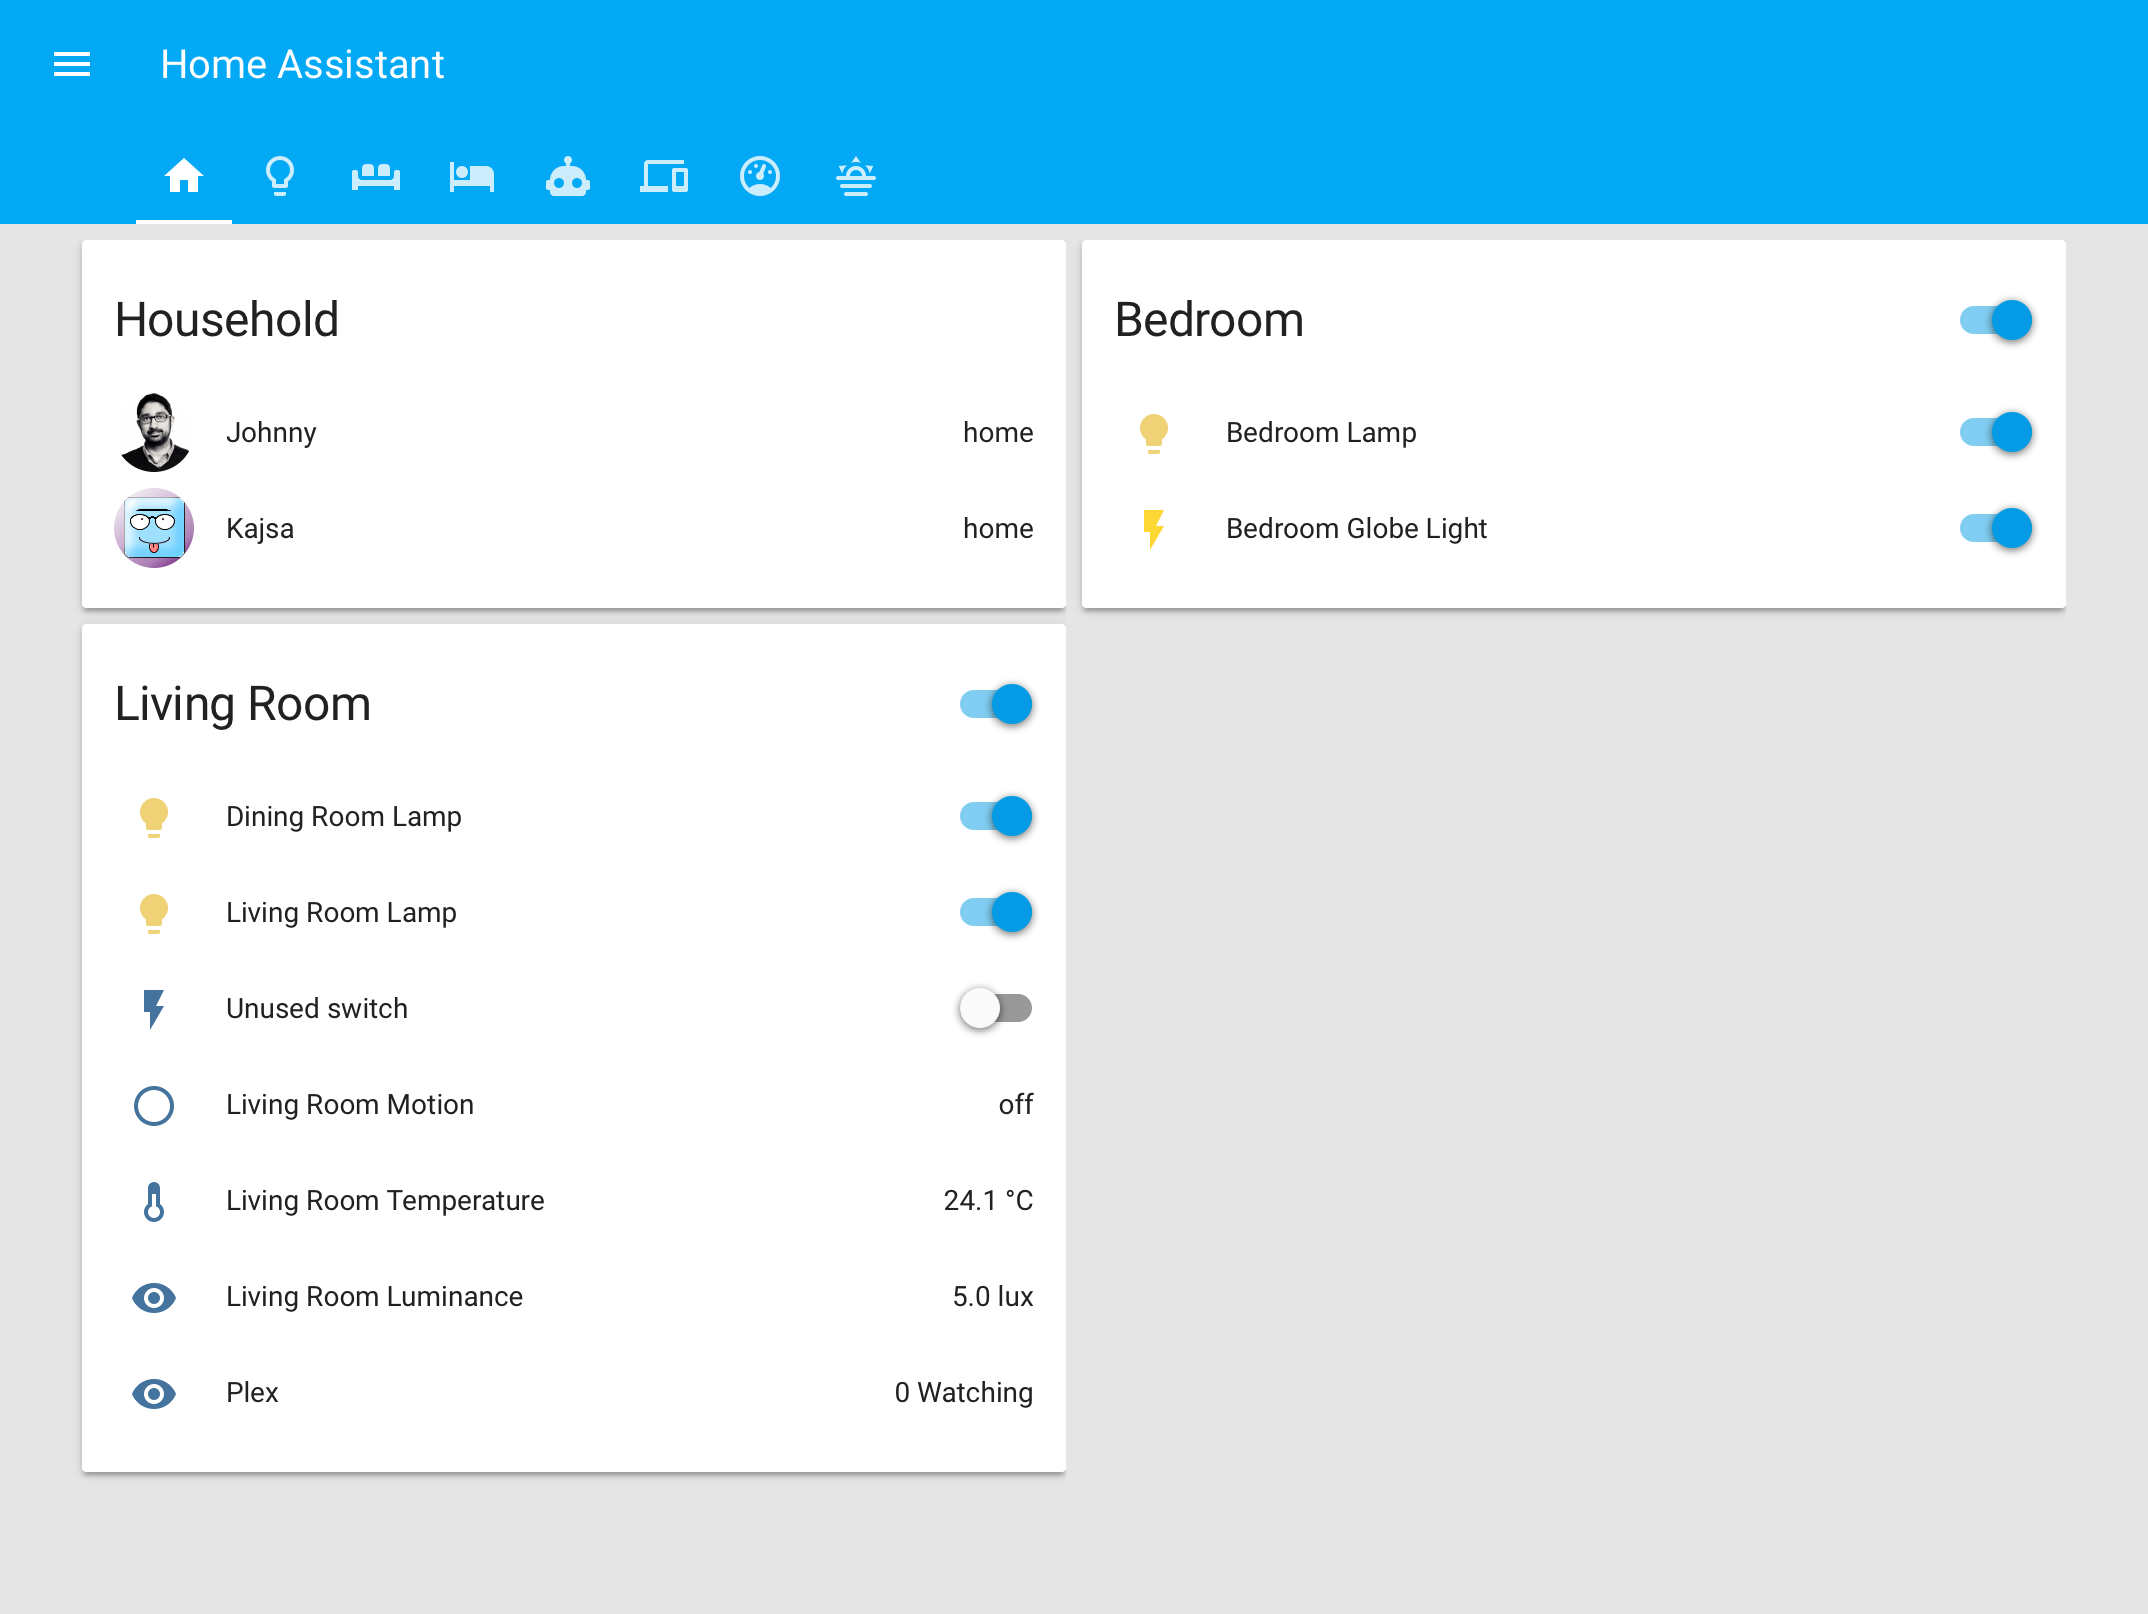
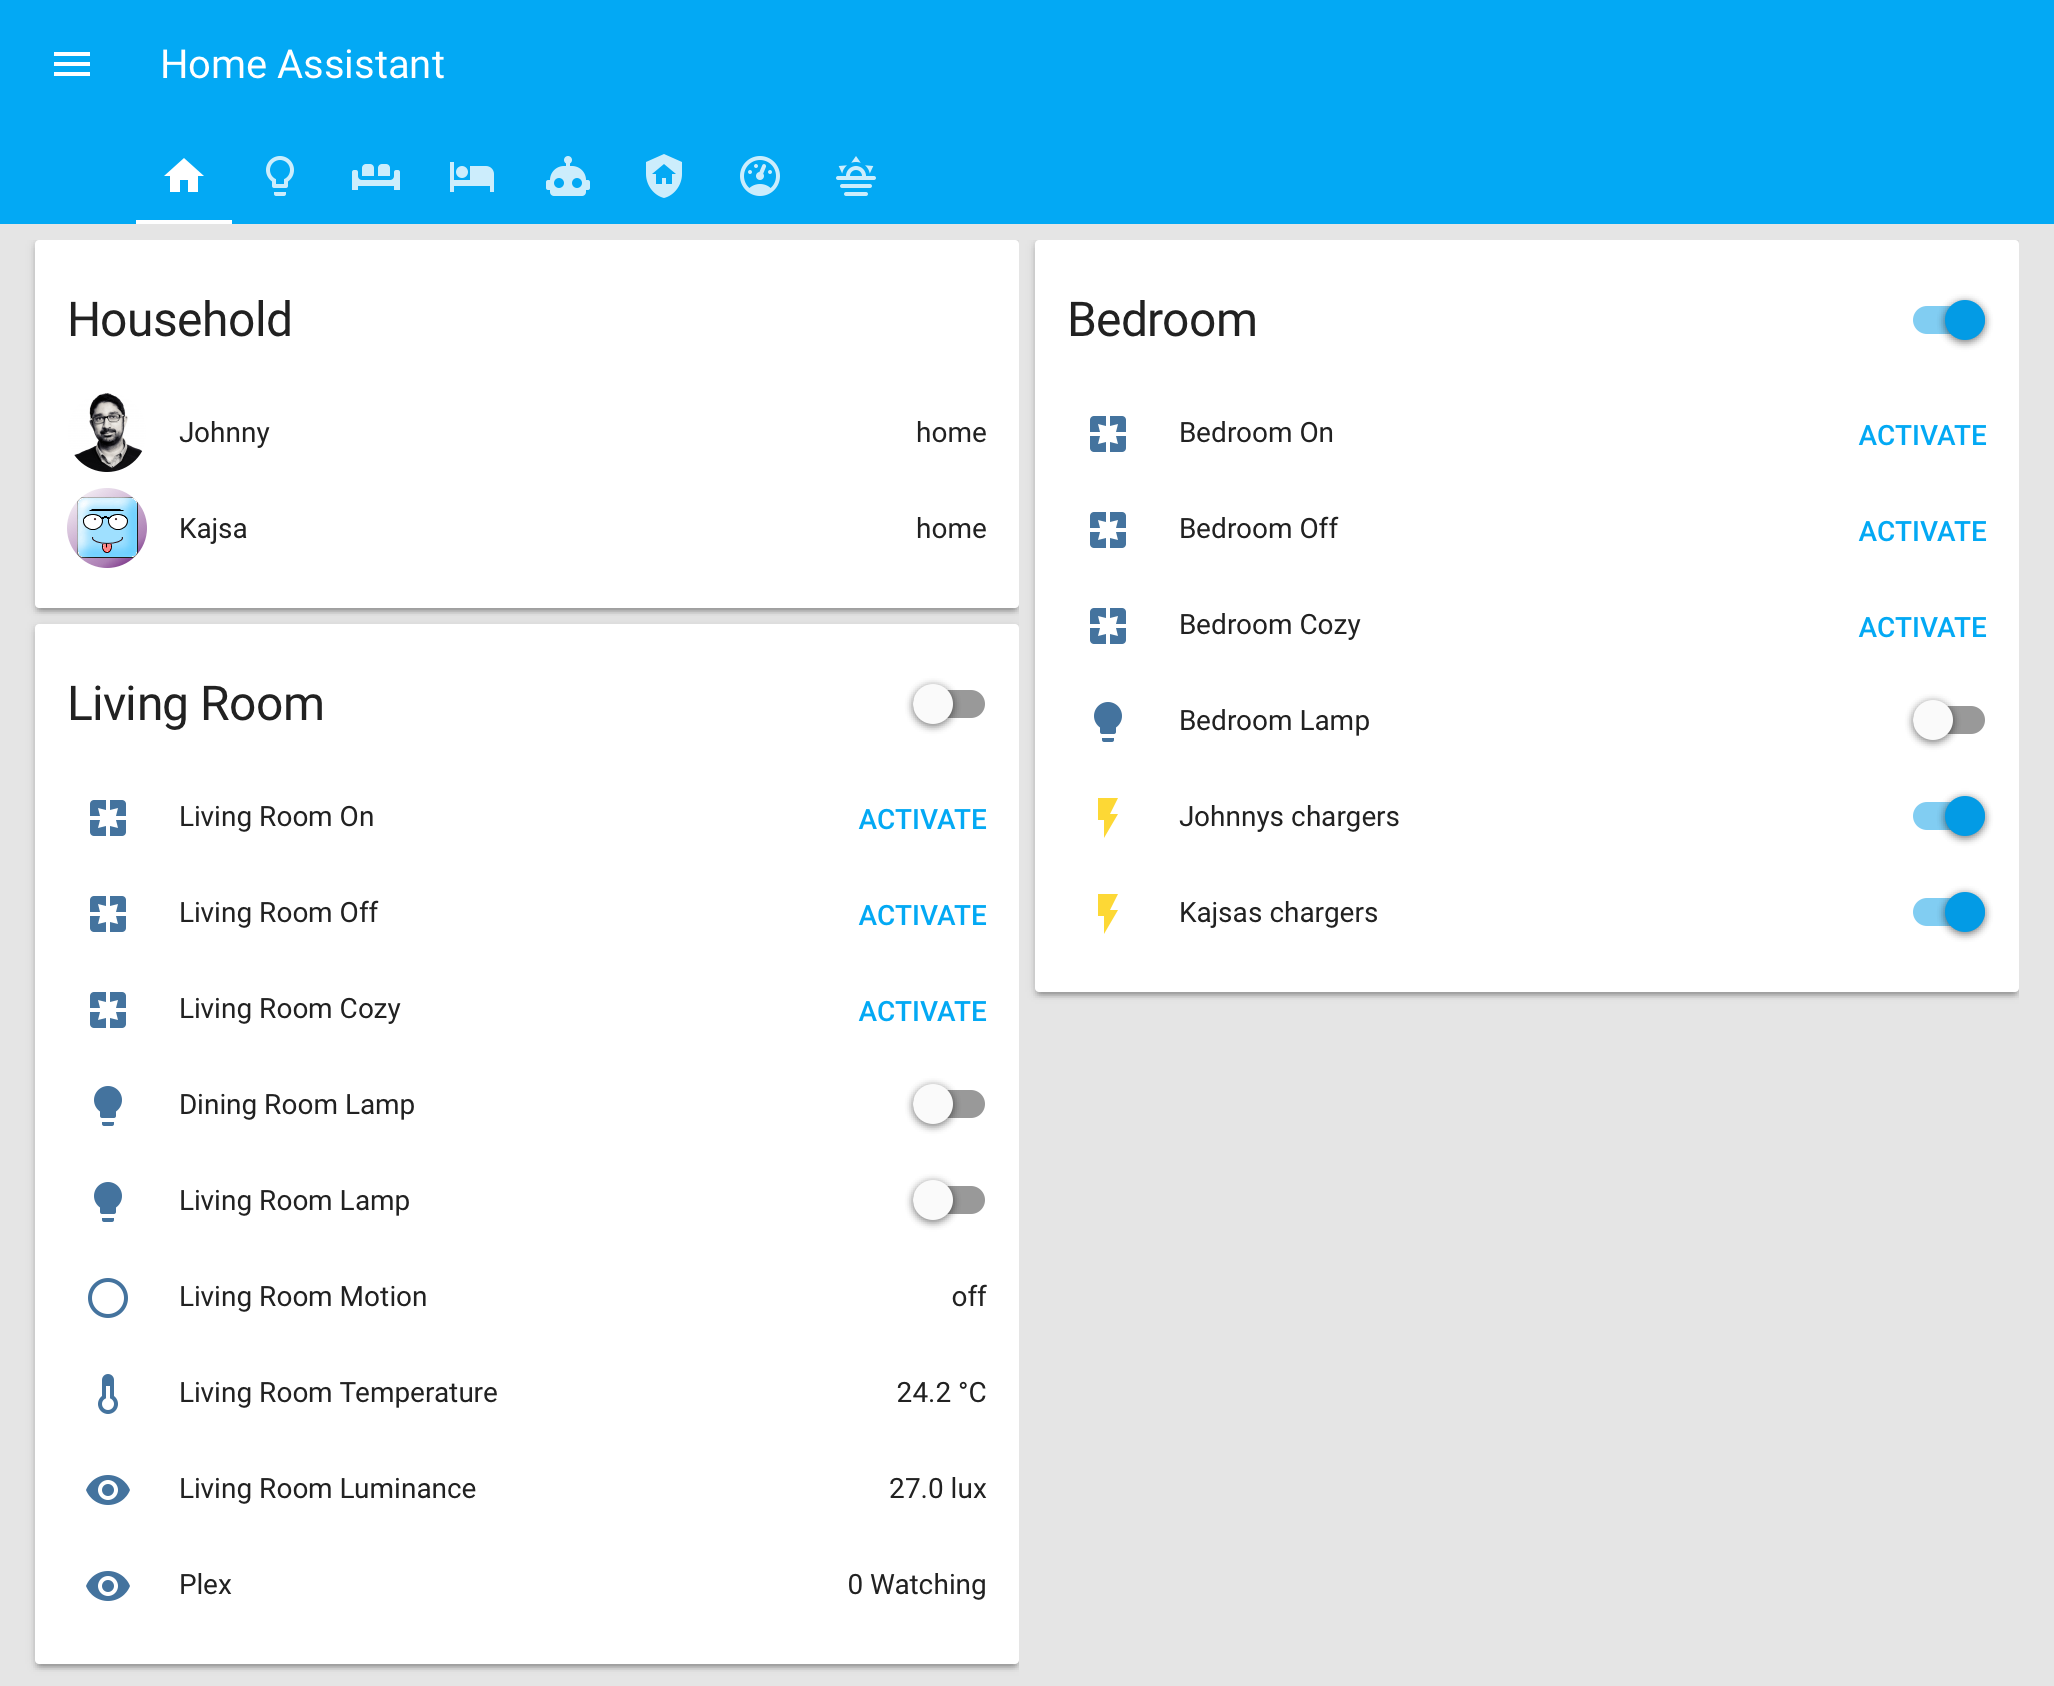
Update images

diff --git a/README.md b/README.md
@@ -14,6 +14,8 @@ This is my [Home Assistant](https://home-assistant.io) configuration.
 - [IKEA Trådfri Gateway](http://www.ikea.com/us/en/catalog/products/00337813/) x1
 - [IKEA Trådfri Remote](http://www.ikea.com/us/en/catalog/products/20303317/) x1
 - [IKEA Trådfri Lights E14](http://www.ikea.com/se/sv/catalog/products/70318284/) x3
+- [Netgear Arlo Pro VMC4030](https://www.arlo.com/en-us/products/arlo-pro/) x2
+- [Netgear Arlo Pro Base station with siren](https://www.arlo.com/en-us/products/arlo-pro/) x1
 
 ## Screenshots
 
@@ -22,6 +24,6 @@ This is my [Home Assistant](https://home-assistant.io) configuration.
 ![Living Room](images/3.png)
 ![Bedroom](images/4.png)
 ![Automation](images/5.png)
-![Devices](images/6.png)
+![Security](images/6.png)
 ![Gauges](images/7.png)
 ![Weather](images/8.png)
